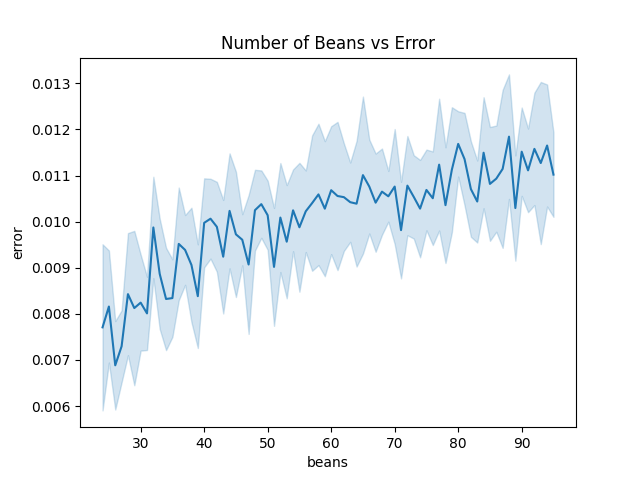
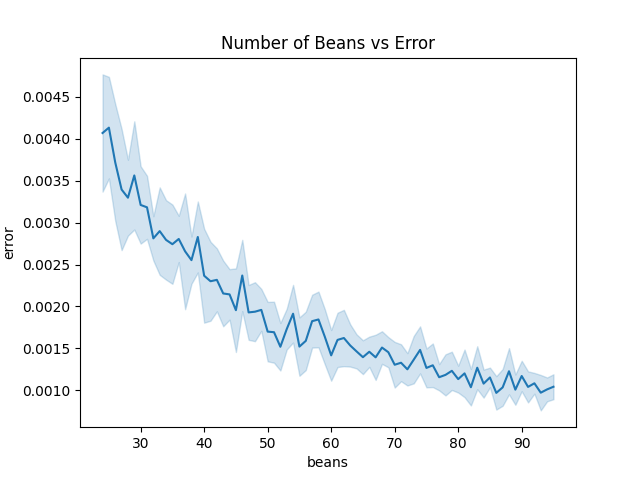
updates

diff --git a/NRMA.py b/NRMA.py
@@ -13,9 +13,9 @@ global studentIDs
 global phantom_students
 global error_df
 
+simulate = True
 penalty = "beans"
 n_beans = 24
-simulate = True
 n_student = 7
 n_rotations = 4
 
@@ -29,7 +29,12 @@ option_to_order_dict = {
 }
 
 def create_cost_matrix():
+	# add penalty
 	cost_matrix = np.random.randint(n_beans // n_rotations, size = (75, n_rotations))
+	if penalty == "beans":
+		pass
+	elif penalty == "linear":
+		cost_matrix = np.random.randint(n_rotations, size = (75, n_rotations))
 	return pad_matrix(cost_matrix)
 
 def build_cost_matrix(preference_df):
@@ -49,10 +54,17 @@ def build_cost_matrix(preference_df):
 	if penalty == "beans":
 		pass
 	elif penalty == "linear":
-		pass
+		cost_matrix = cost_to_rank(cost_matrix)
 
 	return pad_matrix(cost_matrix)
 
+def cost_to_rank(cost_matrix):
+	"""
+	convert the number of beans to an optimal cost 
+	"""
+	for i in range(n_rotations):
+		cost_matrix[np.where(cost_matrix == np.max(cost_matrix))] = i # WLOG, max == min
+	return cost_matrix
 
 def pad_matrix(cost):
 	"""
